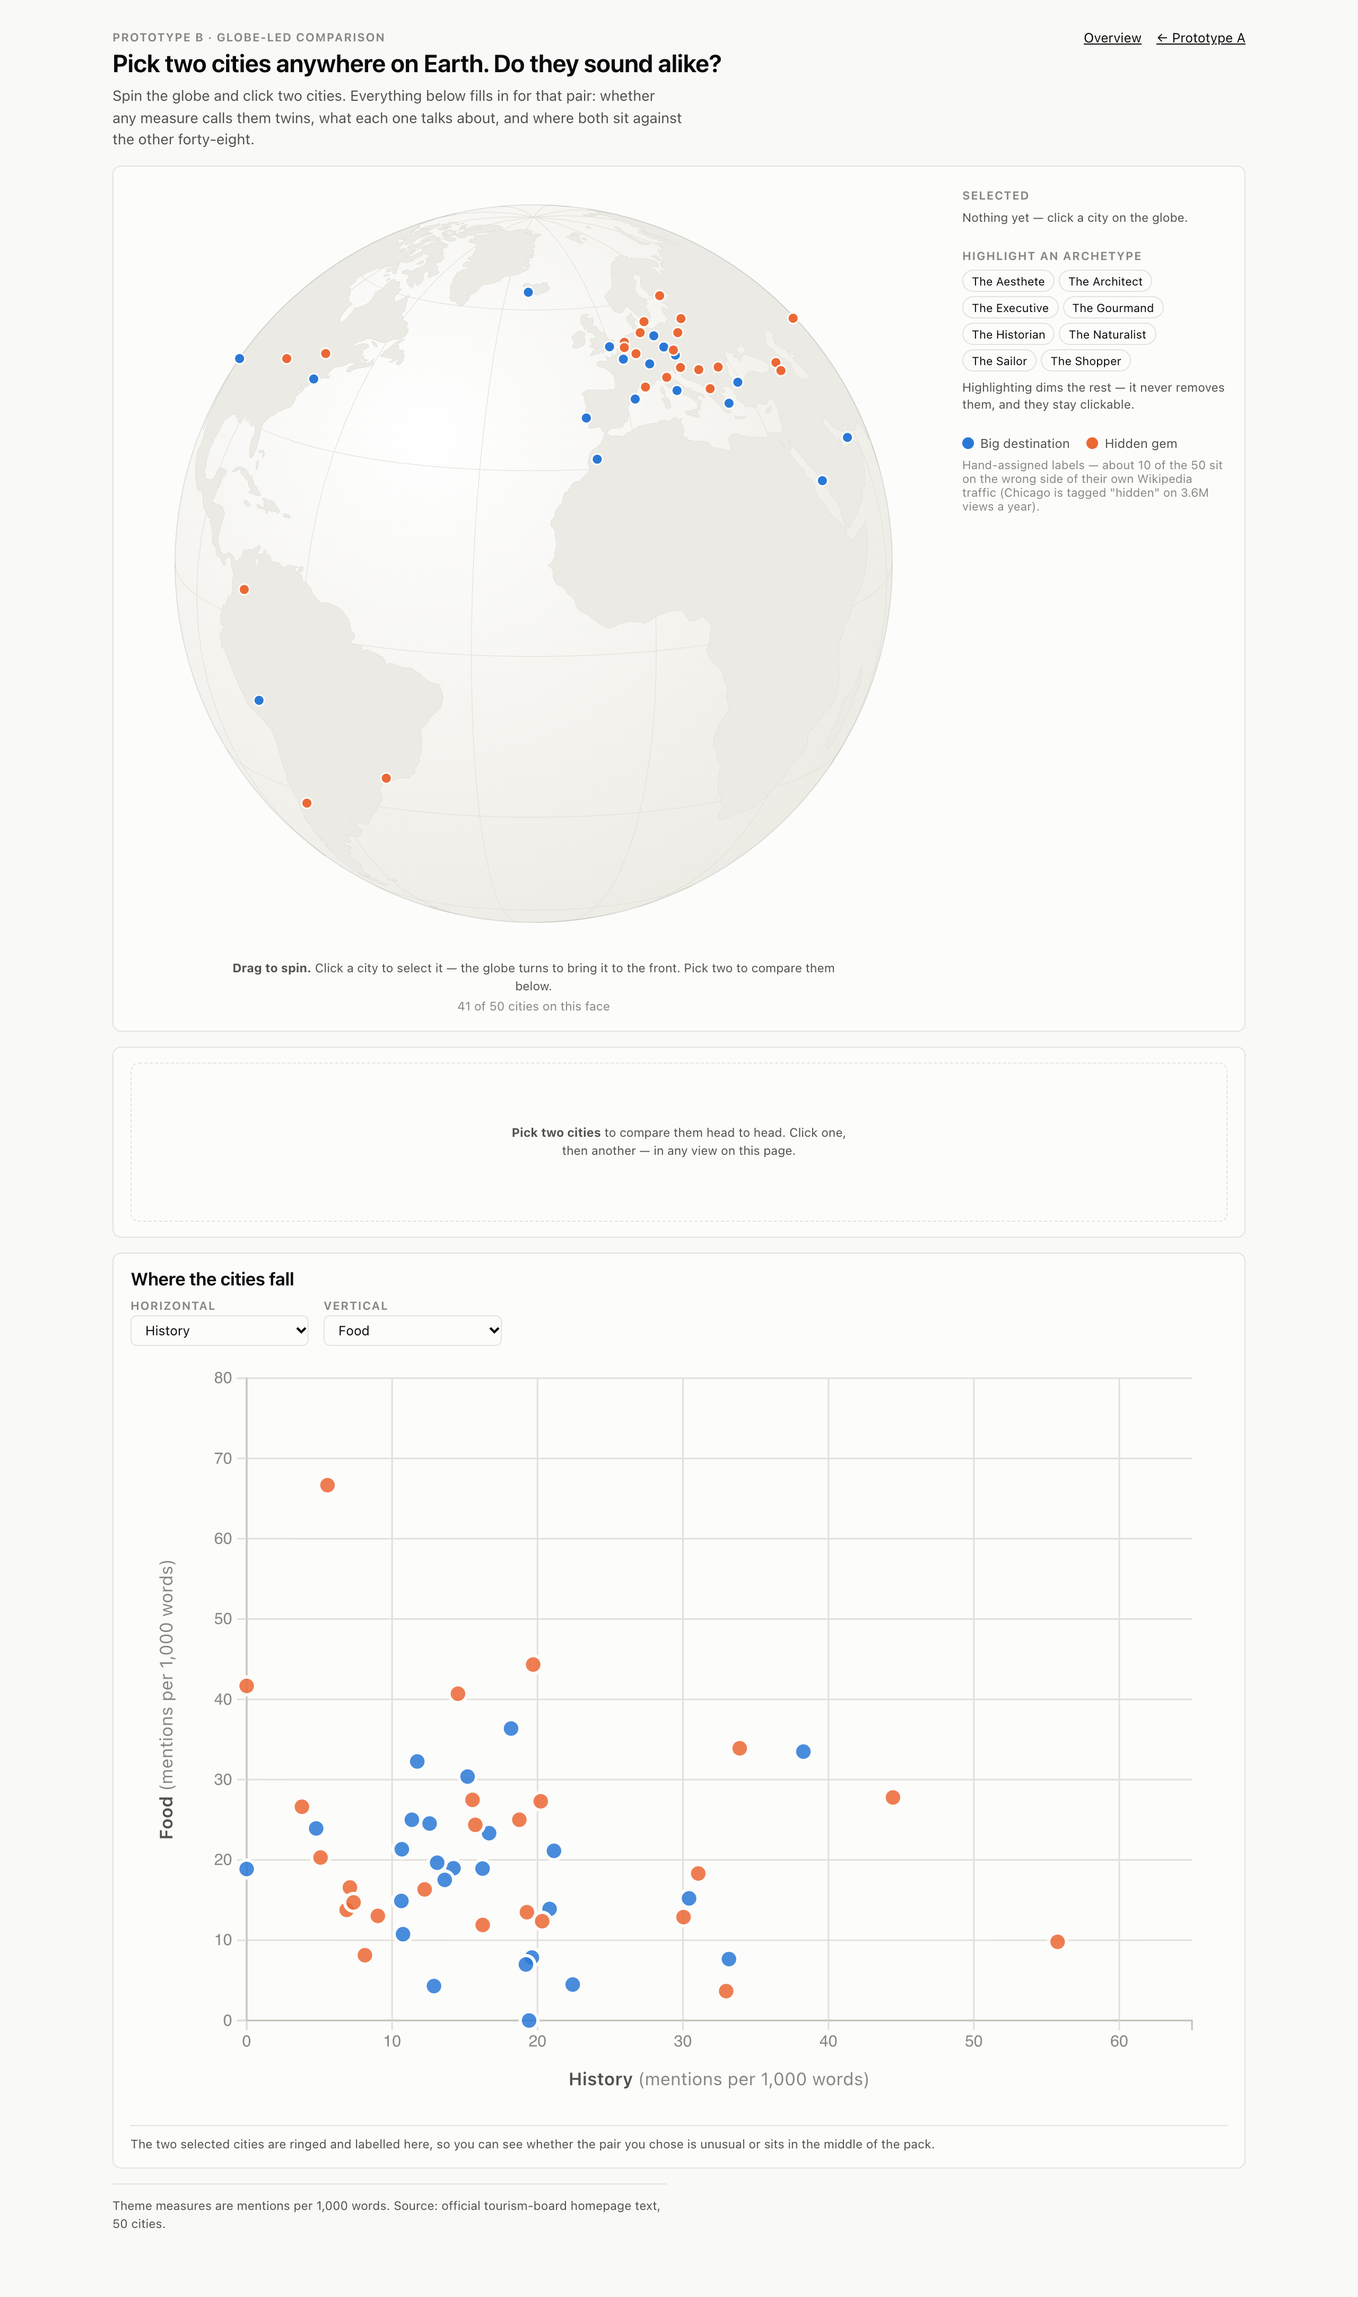
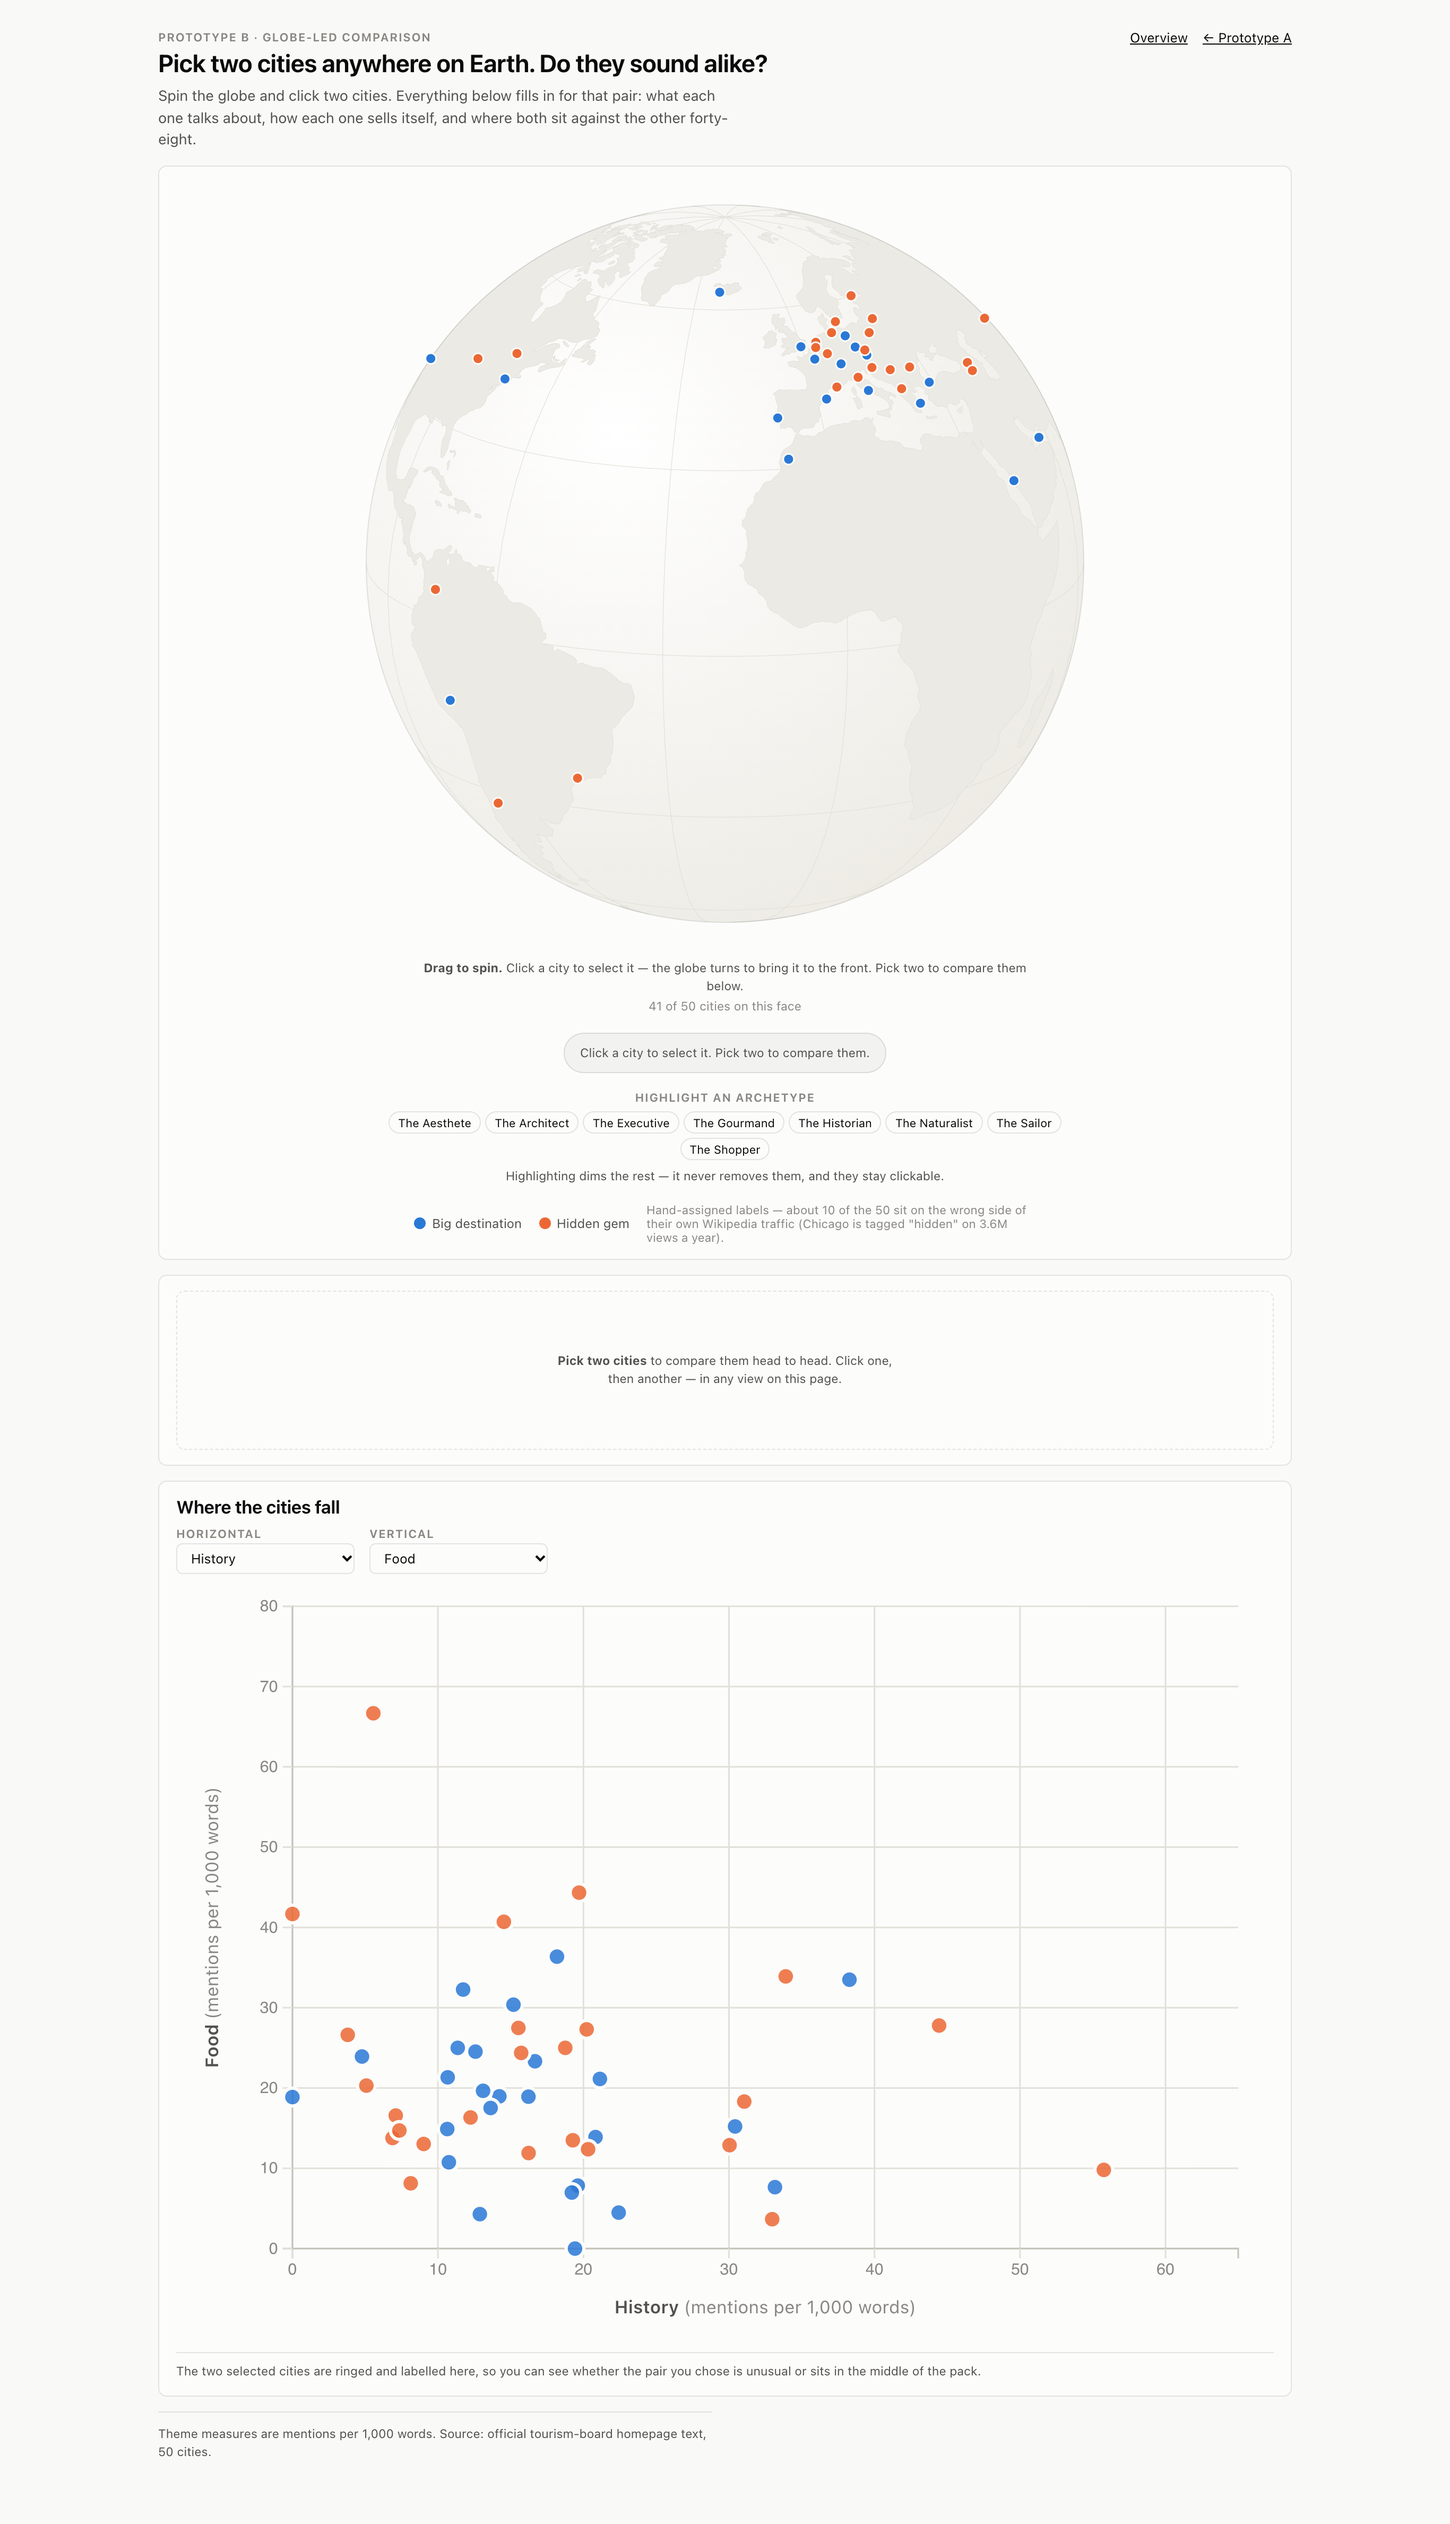
prototype B: centre the globe, move selection beneath it
A sphere is radially symmetric, so sitting it beside a 250px sidebar
read as an illustration next to a panel rather than the subject of the
page. It now sits dead centre with the selection as a status bar
directly under it, since that bar is click feedback and has to stay
next to the thing being clicked.

The bar has a fixed min-height so the page does not jump as picks come
and go, and the archetype pills gained their own clear control now that
they no longer sit next to the selection's.

Globe.svelte's figure needed an explicit width: inside a centred flex
column it was shrinking to fit its content, which capped the globe at
605px instead of 720.

31/31 interaction checks pass, no console errors.

diff --git a/src/routes/prototype-b/+page.svelte b/src/routes/prototype-b/+page.svelte
@@ -101,50 +101,52 @@
         onpickcity={pick}
       />
 
-      <aside class="side">
-        <div class="selected">
-          <span class="eyebrow">Selected</span>
-          {#if picks.length === 0}
-            <p class="note">Nothing yet — click a city on the globe.</p>
+      <!-- Selection sits directly under the globe: it is click feedback, so it
+           has to stay next to the thing being clicked. Fixed min-height so the
+           page does not jump as picks come and go. -->
+      <div class="selected-bar" aria-live="polite">
+        {#if picks.length === 0}
+          <p class="note">Click a city to select it. Pick two to compare them.</p>
+        {:else}
+          <ul class="picklist">
+            {#each picks as name (name)}
+              {@const c = byName.get(name)}
+              <li class:gem={c.category === 'hidden'}>
+                <strong>{c.city}</strong>
+                <span>{c.country}</span>
+                <button class="drop" aria-label="Remove {c.city}" onclick={() => pick(name)}>×</button>
+              </li>
+            {/each}
+          </ul>
+          {#if km !== null}
+            <span class="km">{Math.round(km).toLocaleString()} km apart</span>
           {:else}
-            <ol class="picklist">
-              {#each picks as name (name)}
-                {@const c = byName.get(name)}
-                <li class:gem={c.category === 'hidden'}>
-                  <strong>{c.city}</strong>
-                  <span>{c.country}</span>
-                  <button class="drop" aria-label="Remove {c.city}" onclick={() => pick(name)}>×</button>
-                </li>
-              {/each}
-            </ol>
-            {#if km !== null}
-              <p class="note km">{Math.round(km).toLocaleString()} km apart</p>
-            {:else}
-              <p class="note">Pick one more to compare.</p>
-            {/if}
-            <button onclick={() => (picks = [])}>Clear</button>
+            <span class="note">Pick one more.</span>
+          {/if}
+          <button onclick={() => (picks = [])}>Clear</button>
+        {/if}
+      </div>
+
+      <div class="pills-row">
+        <span class="eyebrow">Highlight an archetype</span>
+        <div class="pills">
+          {#each archetypes as a}
+            <button
+              class="pill"
+              aria-pressed={highlightGroup === a}
+              onclick={() => (highlightGroup = highlightGroup === a ? null : a)}
+            >{a}</button>
+          {/each}
+          {#if highlightGroup}
+            <button class="pill clear-pill" onclick={() => (highlightGroup = null)}>Clear</button>
           {/if}
         </div>
+        <p class="note">
+          Highlighting dims the rest — it never removes them, and they stay clickable.
+        </p>
+      </div>
 
-        <div class="highlight">
-          <span class="eyebrow">Highlight an archetype</span>
-          <div class="pills">
-            {#each archetypes as a}
-              <button
-                class="pill"
-                aria-pressed={highlightGroup === a}
-                onclick={() => (highlightGroup = highlightGroup === a ? null : a)}
-              >{a}</button>
-            {/each}
-          </div>
-          <p class="note">
-            Highlighting dims the rest — it never removes them, and they stay
-            clickable.
-          </p>
-        </div>
-
-        <Legend />
-      </aside>
+      <Legend />
     </section>
 
     <section class="panel">
@@ -197,41 +199,63 @@
   .lede { margin-top: 7px; max-width: 62ch; color: var(--text-secondary); font-size: 0.86rem; line-height: 1.5; }
   nav { display: flex; gap: 14px; font-size: 0.78rem; white-space: nowrap; }
 
+  /* The globe is radially symmetric, so it is centred rather than set beside a
+     sidebar — off-centre it reads as an illustration next to a panel. */
   .globe-panel {
-    display: grid;
-    grid-template-columns: minmax(0, 1fr) 250px;
-    gap: 24px;
-    align-items: start;
+    display: flex;
+    flex-direction: column;
+    align-items: center;
+    gap: 16px;
   }
-  .side { display: flex; flex-direction: column; gap: 20px; padding-top: 6px; }
 
-  .selected { display: flex; flex-direction: column; gap: 7px; align-items: flex-start; }
-  .picklist { list-style: none; margin: 0; padding: 0; display: flex; flex-direction: column; gap: 6px; width: 100%; }
+  .selected-bar {
+    display: flex;
+    align-items: center;
+    justify-content: center;
+    flex-wrap: wrap;
+    gap: 10px 14px;
+    min-height: 38px;
+    padding: 6px 14px;
+    border: 1px solid var(--border);
+    border-radius: 999px;
+    background: var(--wash);
+  }
+  .picklist { list-style: none; margin: 0; padding: 0; display: flex; flex-wrap: wrap; gap: 10px; }
   .picklist li {
     display: flex; align-items: baseline; gap: 6px;
     border-left: 3px solid var(--big);
-    padding: 3px 0 3px 8px;
-    font-size: 0.82rem;
+    padding: 1px 0 1px 8px;
+    font-size: 0.85rem;
   }
   .picklist li.gem { border-left-color: var(--gem); }
   .picklist span { color: var(--text-muted); font-size: 0.7rem; }
   .drop {
-    margin-left: auto; border: none; background: none; padding: 0 4px;
-    color: var(--text-muted); font-size: 0.95rem; line-height: 1;
+    border: none; background: none; padding: 0 2px;
+    color: var(--text-muted); font-size: 1rem; line-height: 1;
   }
   .drop:hover { color: var(--text-primary); background: none; }
-  .km { font-variant-numeric: tabular-nums; }
+  .km { font-size: 0.78rem; font-variant-numeric: tabular-nums; color: var(--text-secondary); }
 
-  .highlight { display: flex; flex-direction: column; gap: 7px; }
-  .pills { display: flex; flex-wrap: wrap; gap: 4px; }
+  .pills-row {
+    display: flex; flex-direction: column; align-items: center; gap: 7px;
+    max-width: 680px; text-align: center;
+  }
+  .pills { display: flex; flex-wrap: wrap; justify-content: center; gap: 4px; }
+  /* Legend is shared with Prototype A, so centre it only inside this panel. */
+  .globe-panel :global(.legend) {
+    justify-content: center;
+    text-align: center;
+    max-width: 620px;
+  }
   .pill { font-size: 0.68rem; padding: 3px 8px; border-radius: 999px; }
+  .clear-pill { color: var(--text-muted); }
 
   .hint { border-top: 1px solid var(--border); padding-top: 9px; margin-top: 10px; }
   .error { color: var(--text-primary); }
   footer { border-top: 1px solid var(--border); padding-top: 12px; max-width: 72ch; }
 
   @media (max-width: 880px) {
-    .globe-panel { grid-template-columns: 1fr; }
+    /* .globe-panel is already a centred column; nothing to restack. */
     .top { flex-direction: column; gap: 12px; }
   }
 </style>

diff --git a/src/lib/Globe.svelte b/src/lib/Globe.svelte
@@ -200,7 +200,9 @@
 </figure>
 
 <style>
-  figure { margin: 0; display: flex; flex-direction: column; gap: 10px; align-items: center; }
+  /* width:100% matters — in a centred flex column the figure would otherwise
+     shrink to fit its content and the globe would never reach its max size. */
+  figure { margin: 0; width: 100%; display: flex; flex-direction: column; gap: 10px; align-items: center; }
   .stage { width: 100%; max-width: 720px; }
 
   svg {
